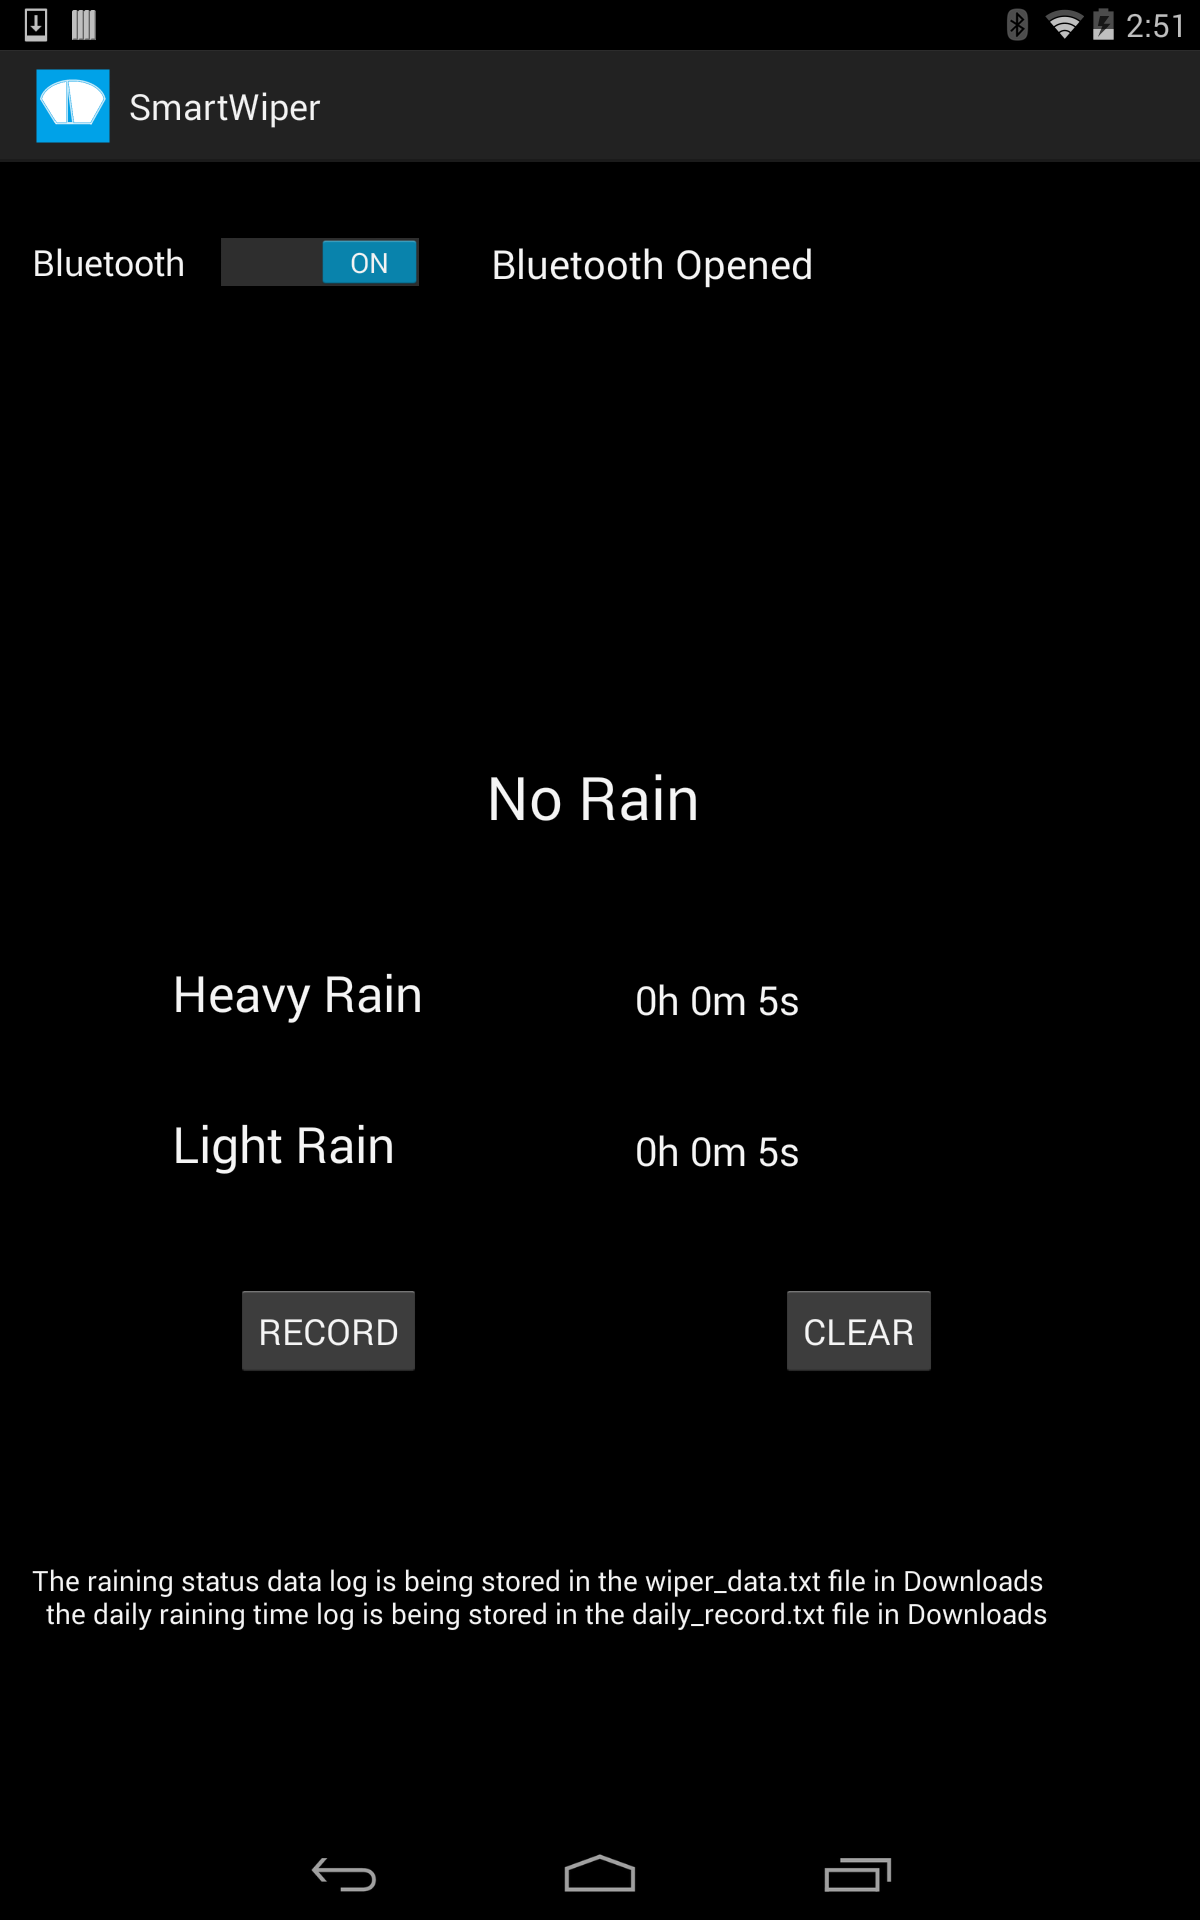
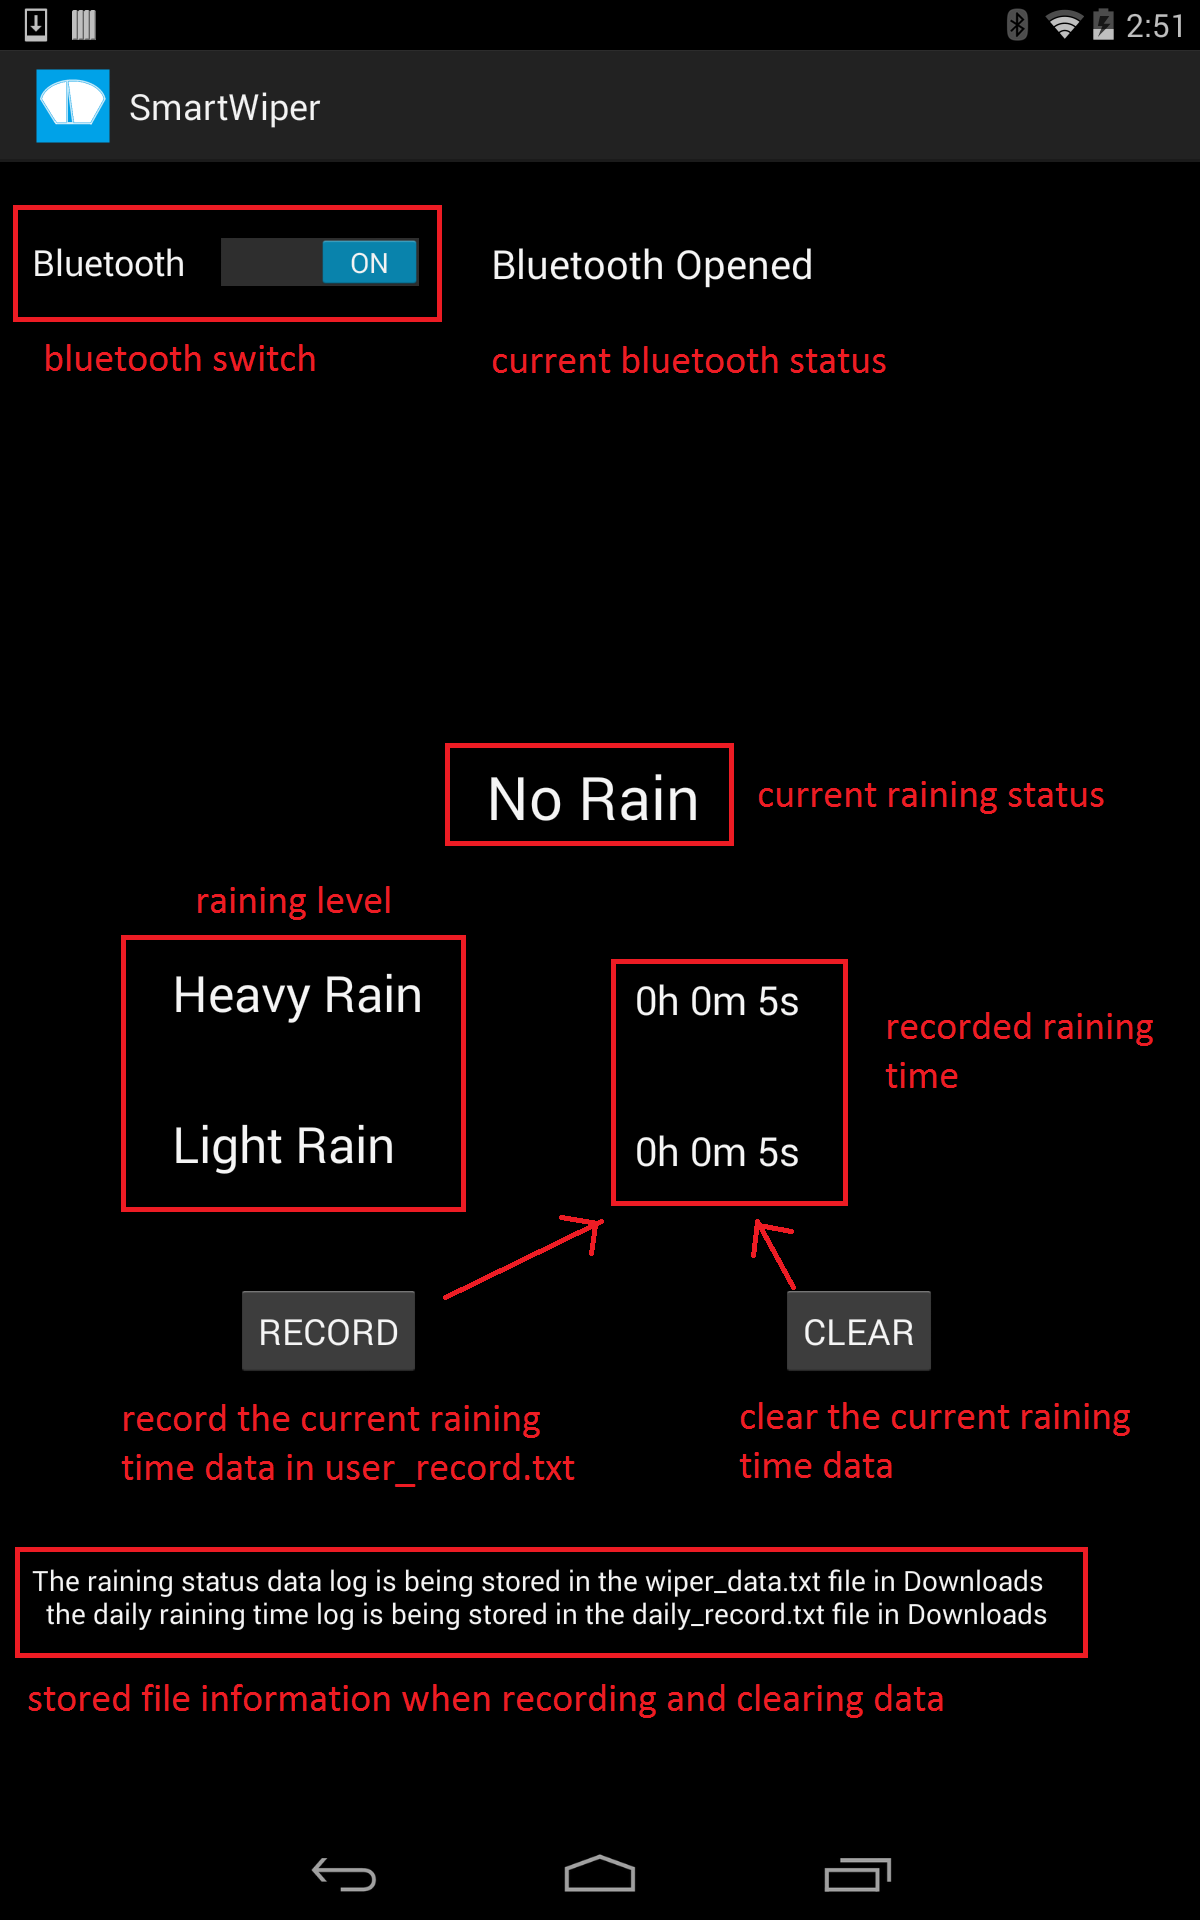
added android instruction graph

diff --git a/Android/README.md b/Android/README.md
@@ -3,11 +3,13 @@
 
 Update 07/21/2014
 
-1. The updated application will display three status based on the wiping frequency: "Heavy Rain", "Light Rain" and "No Rain".
+The updated application displays three raining status: "Heavy Rain", "Light Rain" and "No Rain" in the center.
 
-2. The raining time of heavy rain and light rain will display separately on the screen. The real-time data will be automatically recorded in *wiper_data.txt*, and the total time will be automatically recorded once a day in *daily_record.txt*.
+The aggregated raining time of heavy rain and light rain displays separately on the screen. The raining time data for each status will be automatically recorded daily in "daily_record.txt" file in *Downloads* folder.
 
-3. Users can record the current raining time data in *user_record.txt* by pressing *RECORD* button, and can also clear the current data in screen by pressing *CLEAR* button.
+Users can record the current raining status and time data by pressing *RECORD* button. The data will be stored in "user_record.txt" file in *Downloads* folder.
+
+Users can also clear the current raining time in screen by pressing *CLEAR* button.
 
 ______________________________________
 
@@ -15,10 +17,10 @@ The primary purpose of the Android application is to establish a Bluetooth conne
 
 Note: In order to use the application,  you first need to pair the Smart-Wiper Box to the Android device. This can be done through the main Bluetooth Setting on the Android device.
 
-Once the application is launched, toggle the *Bluetooth* button and wait until the Bluetooth status says *Bluetooth Opened*. In order to check that a successful bluetooth connection was made, look for a green light on the Smart-Wiper Box. Once all connections are established Wiper Status data shows up in large text on the Android application. 
+Once the application is launched, toggle the *Bluetooth* switch and wait until the Bluetooth status says *Bluetooth Opened*. In order to check that a successful bluetooth connection was made, look for a green light on the Smart-Wiper Box. Once all connections are established Wiper Status data shows up in large text on the Android application. 
 
 Note: If the Bluetooth status says *Bluetooth Device Found*, the android device has been paired to the device but a connection was not made.
 
-In order to close the Bluetooth connection, press the *Disconnect Bluetooth* button. This stops all Bluetooth communication with the box. 
+In order to close the Bluetooth connection, turn off the *Bluetooth* switch. This stops all Bluetooth communication with the box. 
 
 In order to view the logs that were saved, navigate to your device's *Downloads* folder. The data will be stored in a file called *wiper_data.txt*
